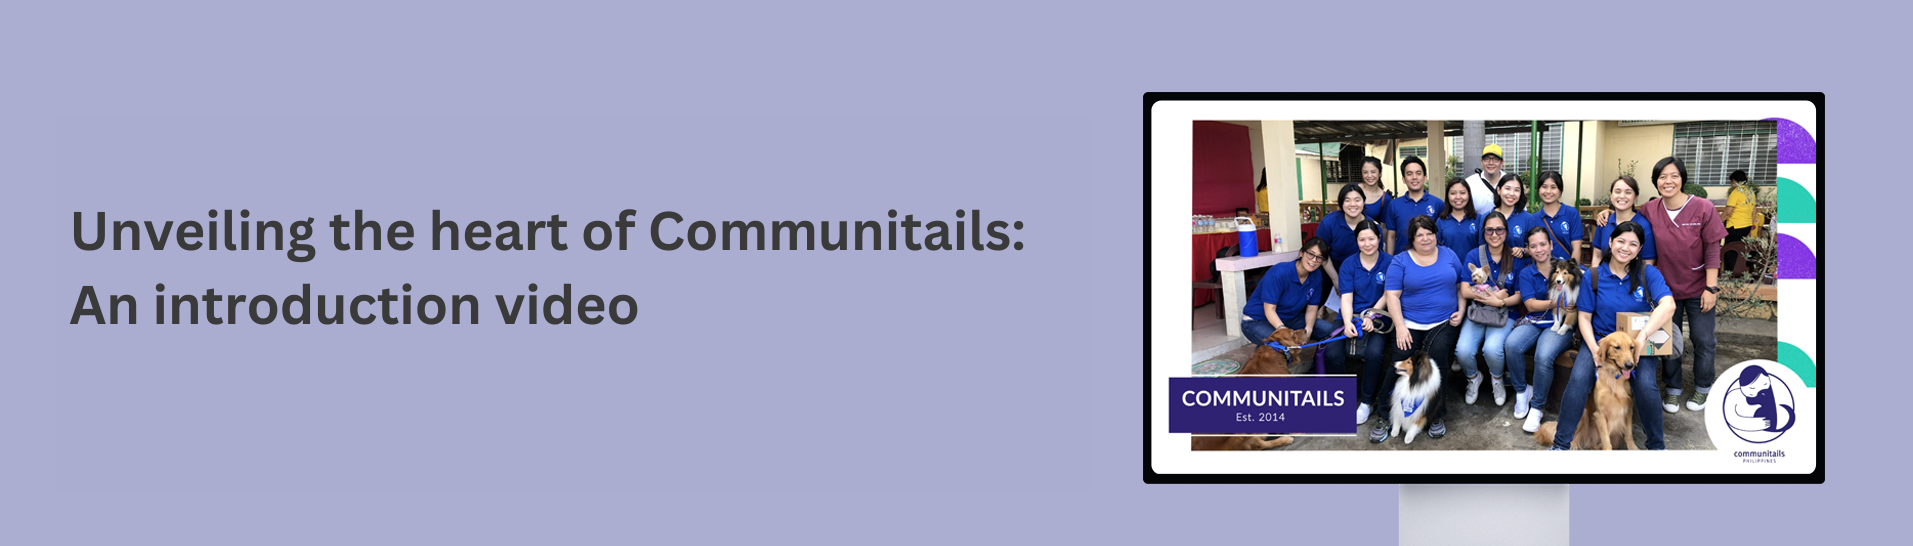
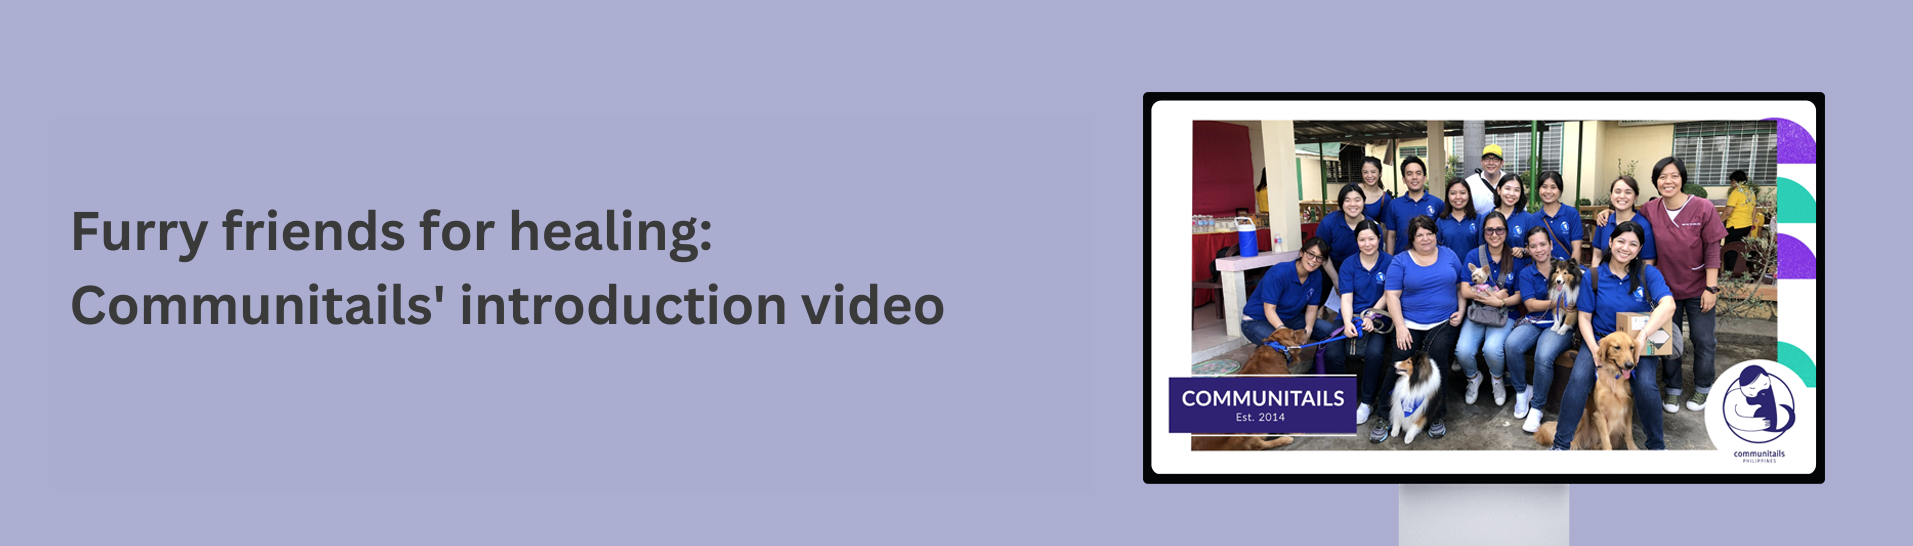
revisions

Changed region(s): [[0.0308, 0.3736, 0.5551, 0.4982], [0.0308, 0.4982, 0.4935, 0.5916]]

diff --git a/index.html b/index.html
@@ -241,7 +241,7 @@ function closeMenu() {
                 </div>
                 <div class="py-1"><a class="reset-anchor" href="memo.html">
                       <p class="mb-0 listing-item-description"> UX Design</p>
-                    <h2 class="h3 listing-item-heading">Optimizing the Memo experience: A journey to productization</h2></a>
+                    <h2 class="h3 listing-item-heading">Optimizing the Memo experience: A journey towards productization</h2></a>
                    <br>
                 </div>
               </div>
@@ -273,7 +273,7 @@ function closeMenu() {
                 </div>
                 <div class="py-1"><a class="reset-anchor" href="bearbakes.html">
                       <p class="mb-0 listing-item-description"> Graphic Design | Videography</p>
-                    <h2 class="h3 listing-item-heading"> Flour, sugar, and passion: The story of Bear Bakes MNL</h2></a>
+                    <h2 class="h3 listing-item-heading"> Flour, sugar, and passion: The sweet story behind Bear Bakes MNL</h2></a>
                    <br>
                 </div>
               </div>
@@ -289,7 +289,7 @@ function closeMenu() {
                 </div>
                 <div class="py-1"><a class="reset-anchor" href="communitails.html">
                       <p class="mb-0 listing-item-description"> Videography </p>
-                    <h2 class="h3 listing-item-heading">Unveiling the heart of Communitails: An introduction video </h2></a>
+                    <h2 class="h3 listing-item-heading">Furry friends for healing: Communitails' introduction video </h2></a>
                    <br>
                 </div>
               </div>
@@ -304,7 +304,7 @@ function closeMenu() {
                 </div>
                 <div class="py-1"><a class="reset-anchor" href="busog.html">
                       <p class="mb-0 listing-item-description"> Graphic Design</p>
-                    <h2 class="h3 listing-item-heading">Bringing Busog by Fatgrill's vision to life through branding
+                    <h2 class="h3 listing-item-heading">Bringing Busog by Fatgrill's culinary vision to life through branding
 </h2></a>
                    <br>
 
